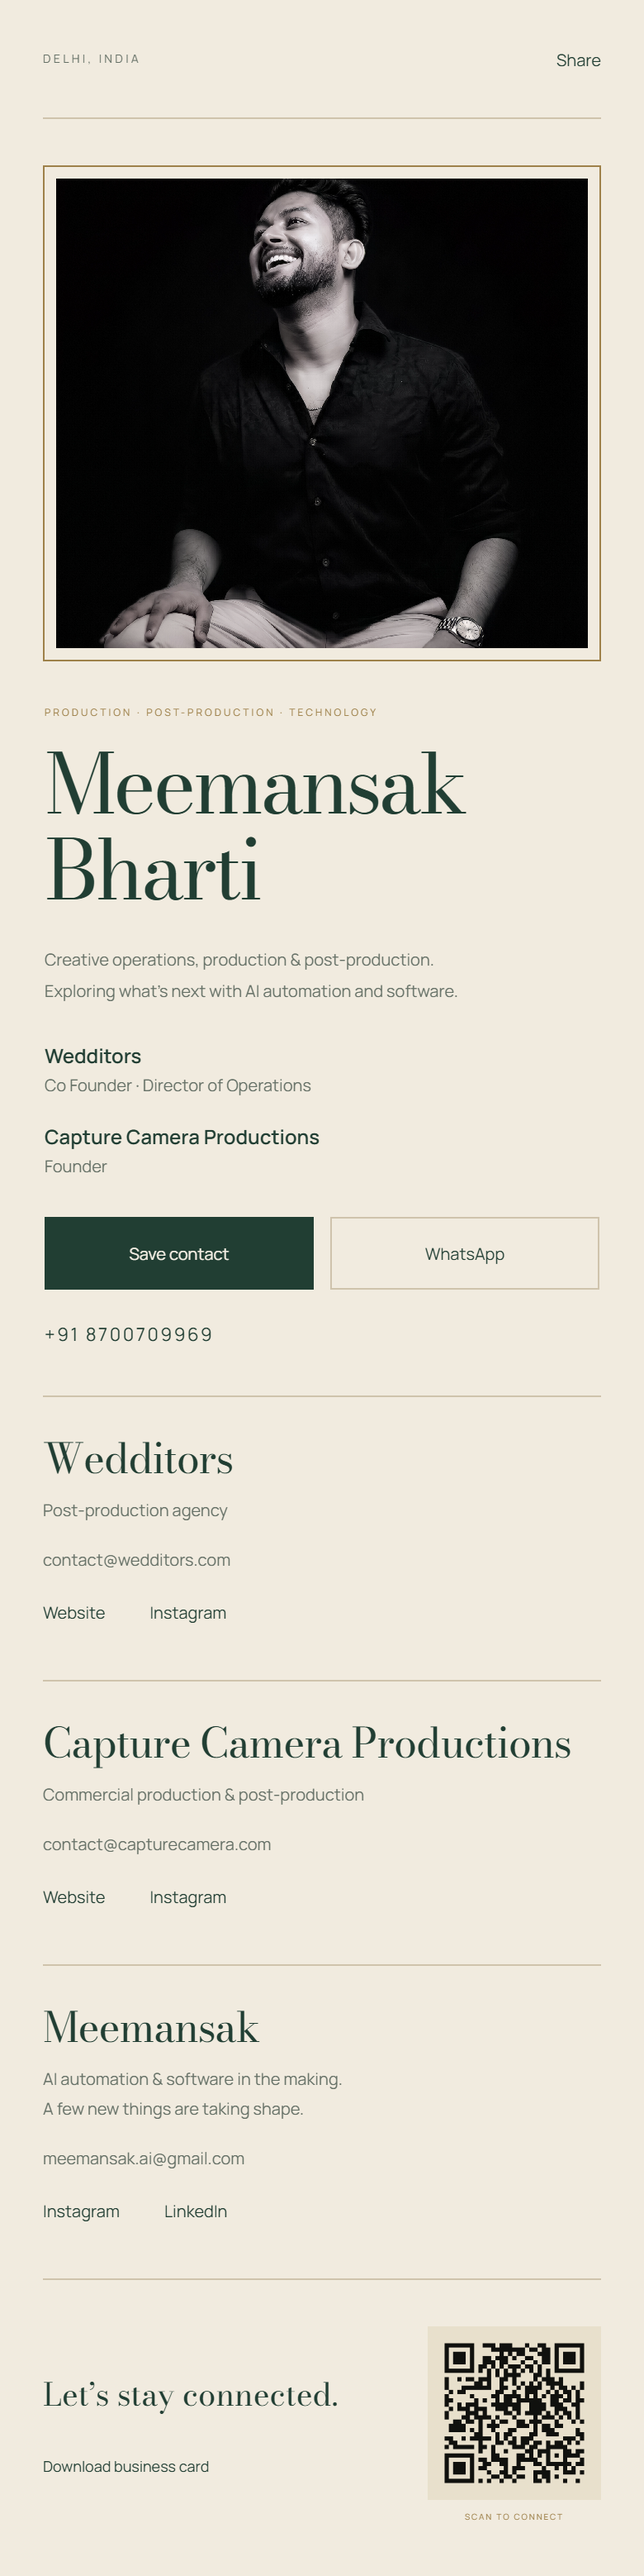
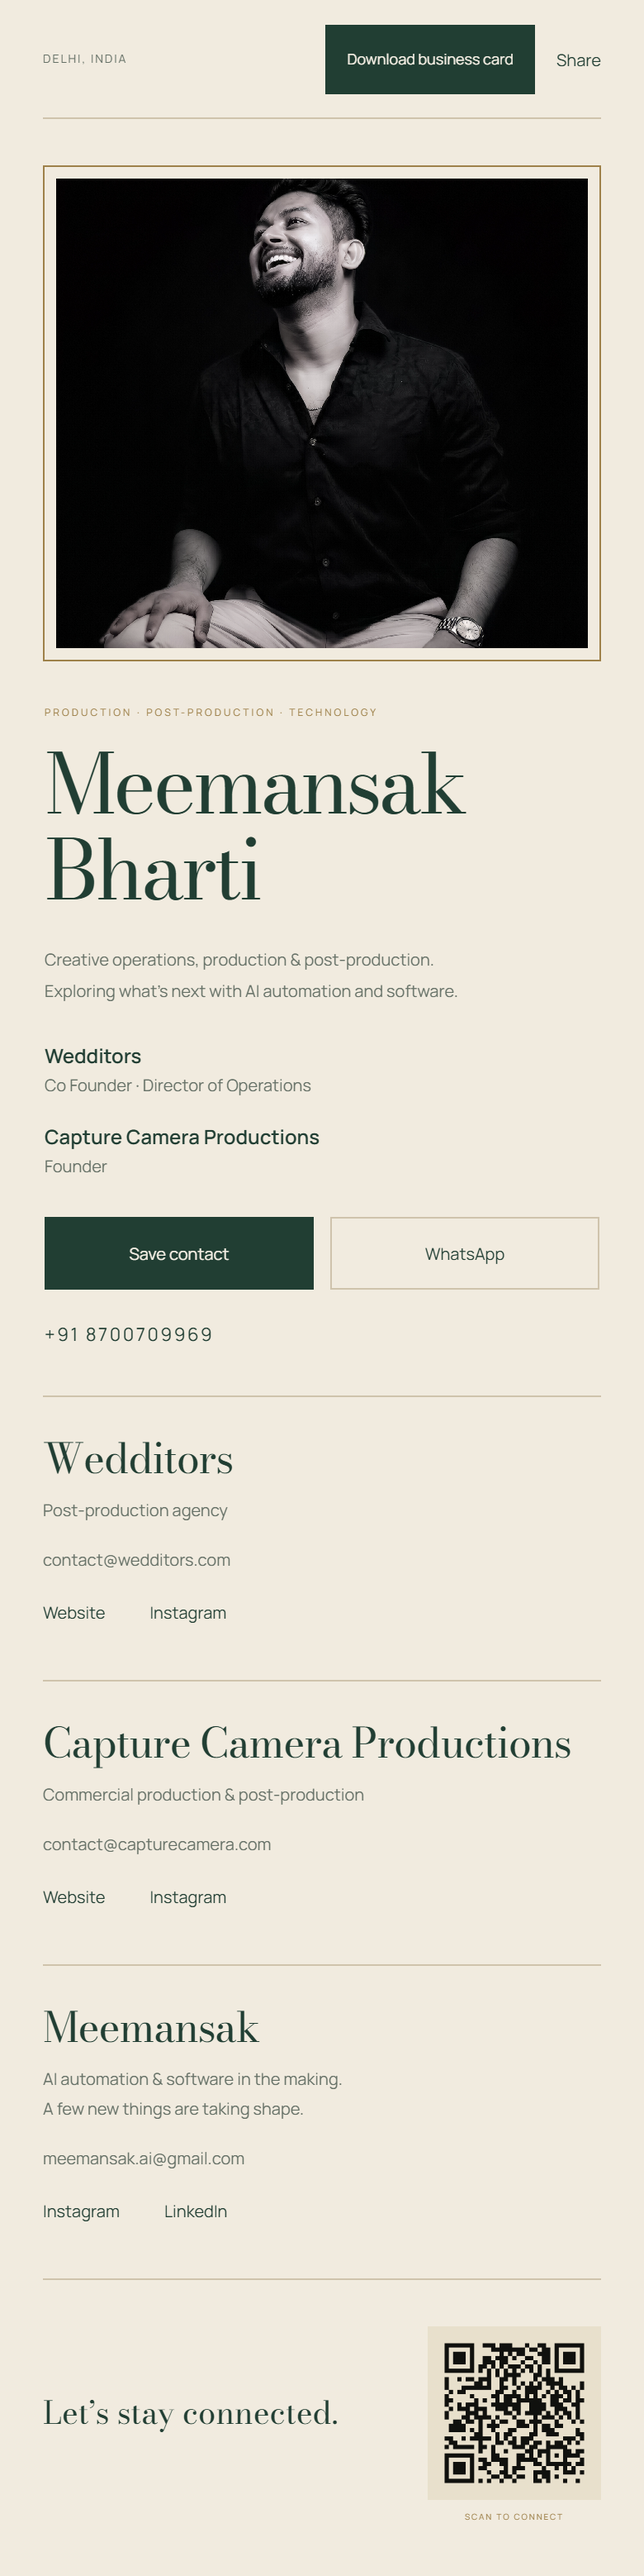
Update Site source

Changed region(s): [[0.4923, 0.0, 0.8308, 0.0623], [0.0615, 0.9339, 0.3385, 0.965]]

diff --git a/dist/index.html b/dist/index.html
@@ -1,8 +1,9 @@
 <!doctype html><html lang="en"><head><meta charset="UTF-8"><meta name="viewport" content="width=device-width,initial-scale=1"><title>Meemansak Bharti — Connect</title><meta name="description" content="Meemansak Bharti. Co Founder & Director of Operations at Wedditors. Founder of Capture Camera Productions. Delhi, India."><meta name="theme-color" content="#f1ebdf"><meta property="og:title" content="Meemansak Bharti — Connect"><meta property="og:description" content="Wedditors · Capture Camera Productions · Delhi, India"><meta property="og:image" content="https://meemansak-bharti-connect.quirkyrhea64.chatgpt.site/assets/business-card.png"><link rel="stylesheet" href="assets/fonts.css"><link rel="stylesheet" href="style.css"></head><body><main>
-<header><span class="location">DELHI, INDIA</span><button data-share class="share">Share</button></header>
+<header><span class="location">DELHI, INDIA</span><div class="header-actions"><a class="button primary download-card" href="assets/business-card.png" download="Meemansak-Bharti-Business-Card.png">Download business card</a><button data-share class="share">Share</button></div></header>
 <section class="hero" aria-label="Meemansak Bharti"><div class="portrait"><img src="assets/meemansak.jpg" alt="Portrait of Meemansak Bharti"></div><div class="intro"><p class="eyebrow">PRODUCTION · POST-PRODUCTION · TECHNOLOGY</p><h1>Meemansak<br><span>Bharti</span></h1><p class="bio">Creative operations, production &amp; post-production.<br>Exploring what’s next with AI automation and software.</p><div class="roles"><p><strong>Wedditors</strong><span>Co Founder · Director of Operations</span></p><p><strong>Capture Camera Productions</strong><span>Founder</span></p></div><div class="actions"><a class="button primary" href="meemansak-bharti.vcf" download>Save contact</a><a class="button secondary" href="https://wa.me/918700709969" target="_blank" rel="noopener">WhatsApp</a></div><a class="phone" href="tel:+918700709969">+91 8700709969</a></div></section>
 <section class="connections" aria-label="Contact and social links">
 <article><div class="brand"><h2>Wedditors</h2><p class="description">Post-production agency</p><a href="mailto:contact@wedditors.com">contact@wedditors.com</a></div><nav aria-label="Wedditors"><a href="https://wedditors.com" target="_blank" rel="noopener">Website</a><a href="https://www.instagram.com/wedditors" target="_blank" rel="noopener">Instagram</a></nav></article>
 <article><div class="brand"><h2>Capture Camera Productions</h2><p class="description">Commercial production &amp; post-production</p><a href="mailto:contact@capturecamera.com">contact@capturecamera.com</a></div><nav aria-label="Capture Camera"><a href="https://capturecamera.com" target="_blank" rel="noopener">Website</a><a href="https://www.instagram.com/thecapturecamera" target="_blank" rel="noopener">Instagram</a></nav></article>
 <article><div class="brand"><h2>Meemansak</h2><p class="description">AI automation &amp; software in the making.<br>A few new things are taking shape.</p><a href="mailto:meemansak.ai@gmail.com">meemansak.ai@gmail.com</a></div><nav aria-label="Meemansak personal"><a href="https://www.instagram.com/meemansaktech" target="_blank" rel="noopener">Instagram</a><a href="https://www.linkedin.com/in/meemansakbharti/" target="_blank" rel="noopener">LinkedIn</a></nav></article>
-</section><footer><div><span class="footer-title">Let’s stay connected.</span><a href="assets/business-card.png" download="Meemansak-Bharti-Business-Card.png">Download business card</a><p id="status" role="status" aria-live="polite"></p></div><div class="qr"><img src="assets/connect-qr.png" alt="Scan this QR code to open Meemansak’s contact page"><span>SCAN TO CONNECT</span></div></footer></main><script src="app.js"></script></body></html>
+</section><footer><div><span class="footer-title">Let’s stay connected.</span><p id="status" role="status" aria-live="polite"></p></div><div class="qr"><img src="assets/connect-qr.png" alt="Scan this QR code to open Meemansak’s contact page"><span>SCAN TO CONNECT</span></div></footer></main><script src="app.js"></script></body></html>
+

diff --git a/dist/style.css b/dist/style.css
@@ -17,3 +17,4 @@ h2{font-size:25px}.brand>a{font-size:10px}.qr img{width:120px;height:120px}
 @media(max-width:600px){header{height:72px}.hero{gap:27px;padding:28px 0}.portrait{height:300px}h1{font-size:clamp(40px,12.8vw,58px)}h1 br{display:none}.eyebrow{font-size:6px;letter-spacing:1.55px}.bio{font-size:10px}h2{font-size:25px}.qr img{width:105px;height:105px}.footer-title{font-size:19px}.button{min-width:0}footer{gap:14px}}
 @media(prefers-reduced-motion:reduce){h1,h1::before{transition:none}h1::before{filter:none}}
 h1::before{inset:-20px -12px}.hero>*{min-width:0}@media(max-width:600px){h1::before{inset:-18px 0}}
+.header-actions{display:flex;align-items:center;gap:22px}.header-actions .download-card{flex:none;white-space:nowrap;border-color:var(--green);font-size:10px;padding:13px 18px}.header-actions .download-card:hover{background:#dcd3bf}@media(max-width:600px){.header-actions{gap:13px}.header-actions .download-card{font-size:9px;padding:12px;min-height:42px}header{gap:10px}.location{white-space:nowrap;letter-spacing:1px}}
